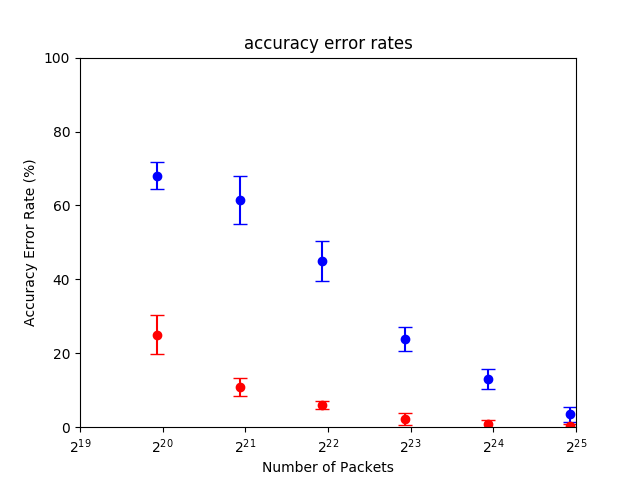
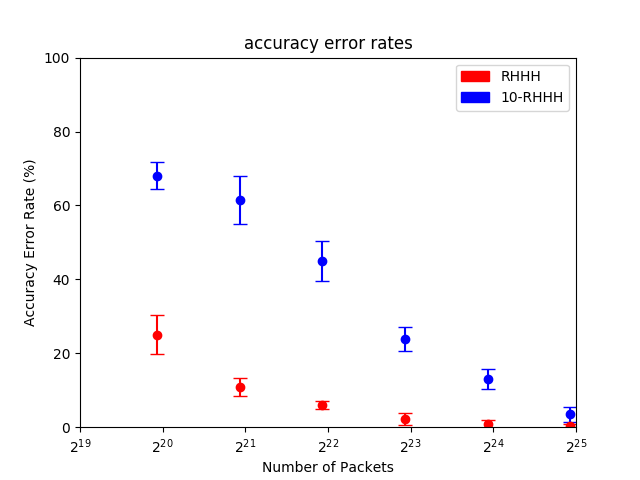
new graphs

Changed region(s): [[0.7188, 0.125, 0.9062, 0.2188]]

diff --git a/chicago2015/plot_graph.py b/chicago2015/plot_graph.py
@@ -2,6 +2,7 @@ import matplotlib as mpl
 mpl.use('agg')
 
 import numpy as np
+import matplotlib.patches as mpatches
 import matplotlib.pyplot as plt
 import pdb
 from parse_results import parse_file
@@ -65,7 +66,10 @@ def graph(rhh_confidence_intervals, _10_rhh_confidence_intervals, graph_name, x_
         plt.setp(ax, xticks=[2**x for x in range(19, 26)], xticklabels=["2^%s"%x for x in range(19, 26)])
         ax.set_xscale("log", basex=2)
 #        ax.xticks([2**x for x in range(19, 26)], ["2^%s"%x for x in range(19, 26)])
-	plt.title(graph_name)
+        red_patch = mpatches.Patch(color='red', label='RHHH')
+        blue_patch = mpatches.Patch(color='blue', label='10-RHHH')
+        plt.legend(handles=[red_patch, blue_patch])
+        plt.title(graph_name)
 	fig.savefig("_".join(graph_name.split()) + '_fig.png')
 
 # Uses the student t distribution to compute a 95% confidence interval
